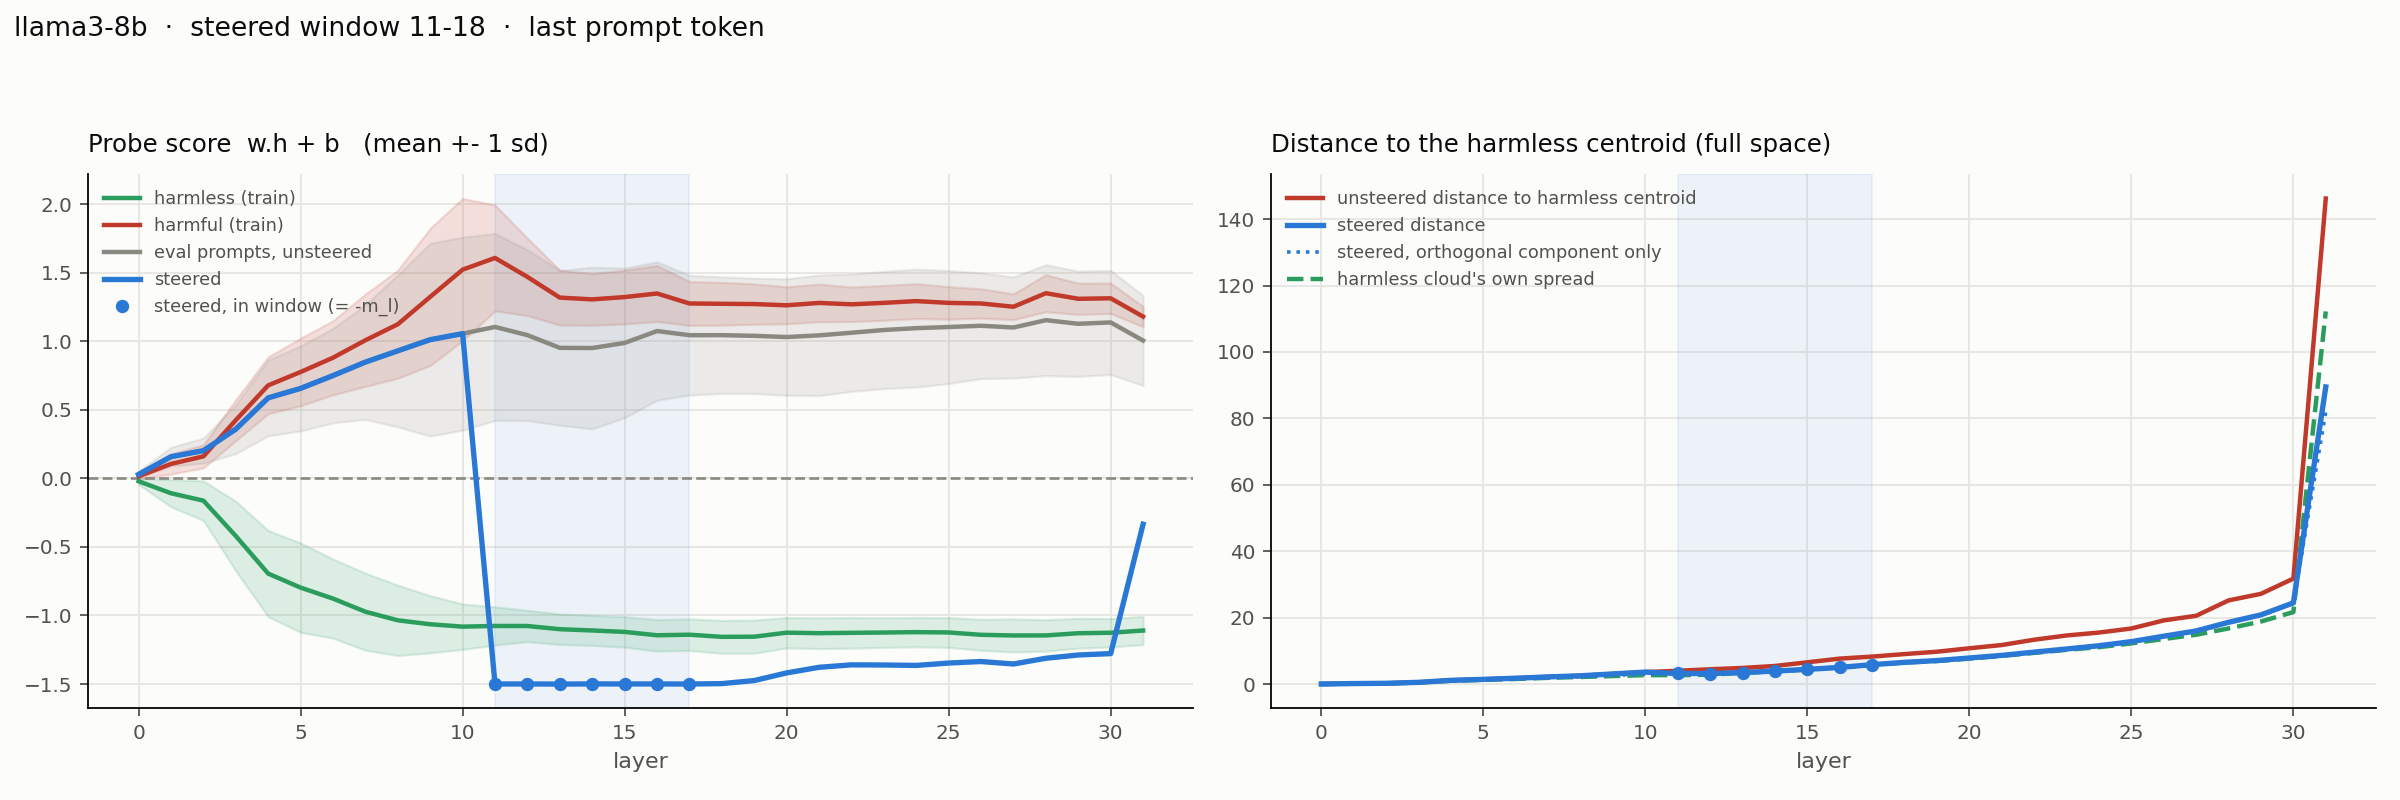
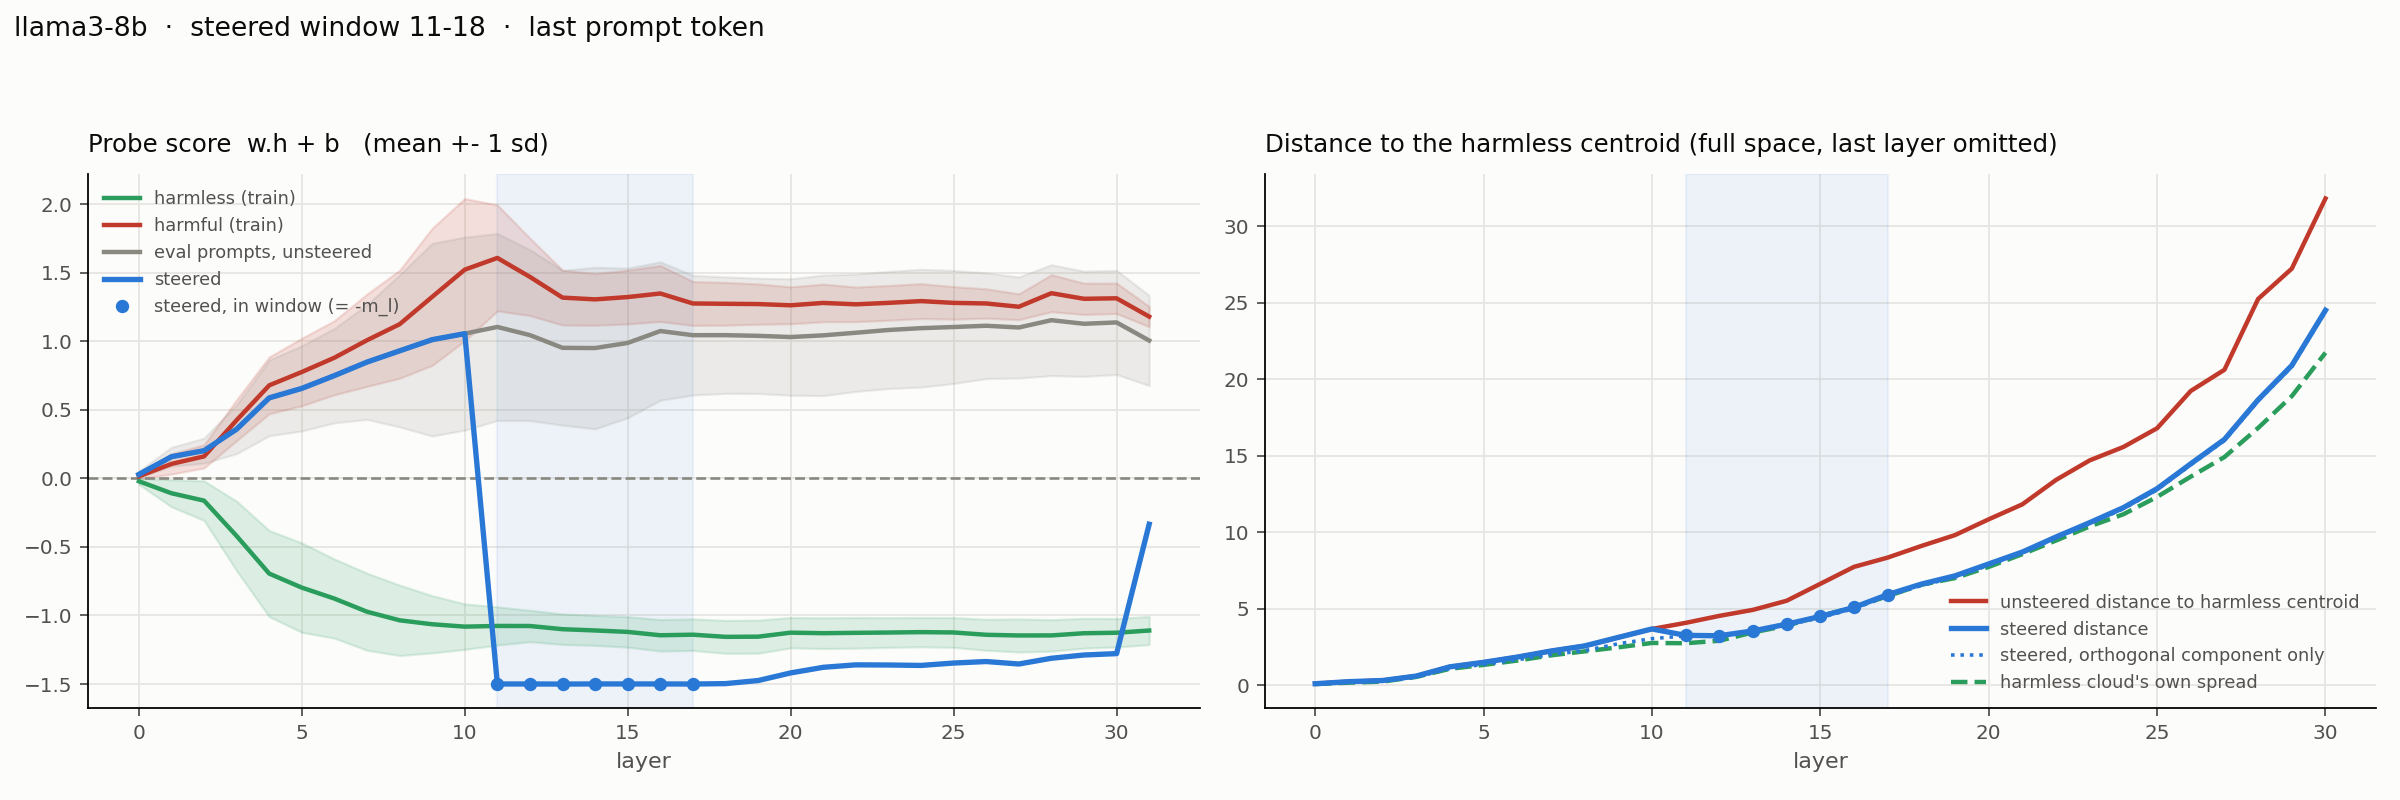
Drop post-RMSNorm last layer from distance panel
The final layer's saved representation is post-final-norm while its hook sees
pre-norm, so its distance was ~5x the rest and flattened the y-scale. Omitted
from the distance panel only (probe-score panel keeps it). Regenerated both
plots via --replot, no GPU.

diff --git a/experiments/probe_score_distributions.py b/experiments/probe_score_distributions.py
@@ -323,23 +323,23 @@ def plot(rows, window, all_layers, out_path, model_name, layers_arg):
     axes[0].set_title("Probe score  w.h + b   (mean +- 1 sd)", color=INK, fontsize=11, loc="left", pad=10)
     axes[0].legend(frameon=False, fontsize=8, labelcolor=INK_MUTED)
 
-    # Distance panel, also across all layers. Downstream the orthogonal component keeps
-    # tracking the total (probe stays blind to the intervention it inherited).
-    total = [r["dist_steered"]["total"] for r in rows]
-    orth = [r["dist_steered"]["orthogonal"] for r in rows]
-    clean = [r["dist_clean"]["total"] for r in rows]
-    spread = [r["harmless_spread"] for r in rows]
-    axes[1].plot(xs, clean, color=HARMFUL_C, linewidth=2,
+    # Distance panel, across all layers EXCEPT the last. The final layer's saved
+    # representation is post-RMSNorm (get_representations stores hidden_states[1:]) while
+    # a layer hook sees pre-norm, so its distance is ~5x the rest and destroys the y-scale.
+    last = max(r["layer"] for r in rows)
+    rows_d = [r for r in rows if r["layer"] != last]
+    xd = [r["layer"] for r in rows_d]
+    axes[1].plot(xd, [r["dist_clean"]["total"] for r in rows_d], color=HARMFUL_C, linewidth=2,
                  label="unsteered distance to harmless centroid", zorder=3)
-    axes[1].plot(xs, total, color=STEER_C, linewidth=2.4,
+    axes[1].plot(xd, [r["dist_steered"]["total"] for r in rows_d], color=STEER_C, linewidth=2.4,
                  label="steered distance", zorder=4)
-    axes[1].plot(xs, orth, color=STEER_C, linewidth=1.6, linestyle=":",
-                 label="steered, orthogonal component only", zorder=4)
-    axes[1].plot(xs, spread, color=HARMLESS_C, linewidth=2, linestyle="--",
-                 label="harmless cloud's own spread", zorder=3)
+    axes[1].plot(xd, [r["dist_steered"]["orthogonal"] for r in rows_d], color=STEER_C,
+                 linewidth=1.6, linestyle=":", label="steered, orthogonal component only", zorder=4)
+    axes[1].plot(xd, [r["harmless_spread"] for r in rows_d], color=HARMLESS_C, linewidth=2,
+                 linestyle="--", label="harmless cloud's own spread", zorder=3)
     axes[1].plot(wx, [r["dist_steered"]["total"] for r in rows if r["in_window"]],
                  color=STEER_C, linewidth=0, marker="o", markersize=5, zorder=5)
-    axes[1].set_title("Distance to the harmless centroid (full space)",
+    axes[1].set_title("Distance to the harmless centroid (full space, last layer omitted)",
                       color=INK, fontsize=11, loc="left", pad=10)
     axes[1].legend(frameon=False, fontsize=8, labelcolor=INK_MUTED)
 
